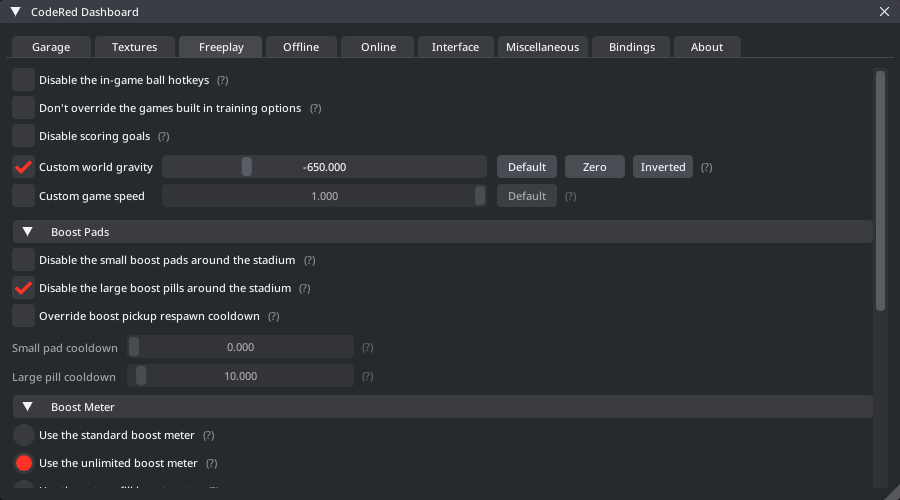
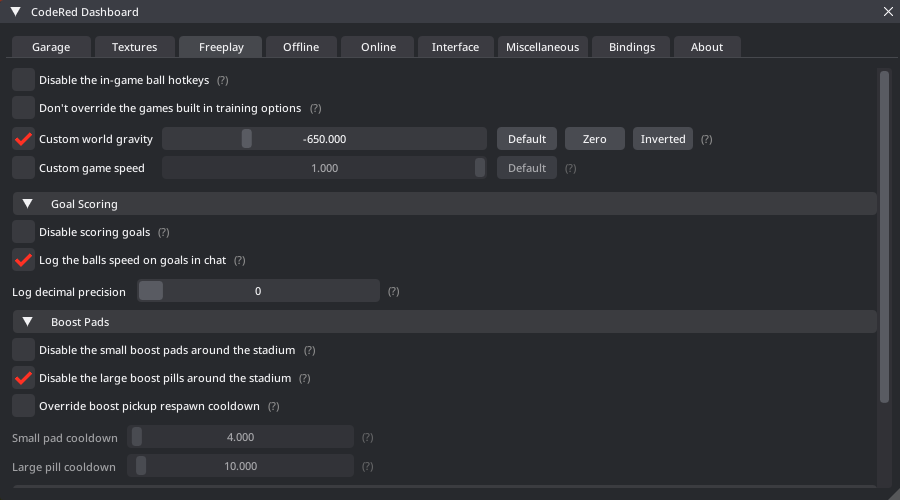
Initial Commit

diff --git a/documentation.html b/documentation.html
@@ -260,7 +260,7 @@
                             <table class="table table-bordered">
                                 <tbody>
                                     <tr>
-                                        <th class="theme-bg-light"><b>imgui_global_scale &lt0.2-4&gt</b></th>
+                                        <th class="theme-bg-light"><b>imgui_global_scale</b></th>
                                         <td>Change the global interface scaling for ImGui.</td>
                                     </tr>
                                     <tr>
@@ -729,7 +729,7 @@
                                         <td>Disable the large boost pills around the stadium in freeplay.</td>
                                     </tr>
                                     <tr>
-                                        <th class="theme-bg-light"><b>freeplay_gravity</b></th>
+                                        <th class="theme-bg-light"><b>freeplay_gravity &lt-1300.0-1300.0&gt</b></th>
                                         <td>Custom gravity force to apply in freeplay.</td>
                                     </tr>
                                     <tr>
@@ -803,6 +803,14 @@
                                     <tr>
                                         <th class="theme-bg-light"><b>freeplay_speed</b></th>
                                         <td>Custom game speed value to apply in freeplay.</td>
+                                    </tr>
+                                    <tr>
+                                        <th class="theme-bg-light"><b>freeplay_goal_speed &lttrue-false&gt</b></th>
+                                        <td>Shows the last goal speed of the ball in chat in freeplay.</td>
+                                    </tr>
+                                    <tr>
+                                        <th class="theme-bg-light"><b>freeplay_goal_precision &lt0-9&gt</b></th>
+                                        <td>The decimal precision used in displaying the goal speed.</td>
                                     </tr>
                                 </tbody>
                             </table>
@@ -1420,6 +1428,10 @@
                                     </tr>
                                     <tr>
                                         <th class="theme-bg-light"><b>scoreboard_skill_precision &lt0-9&gt</b></th>
+                                        <td>The decimal precision used in the win/loss skill ratings on the scoreboard.</td>
+                                    </tr>
+                                    <tr>
+                                        <th class="theme-bg-light"><b>scoreboard_update_precision &lt0-9&gt</b></th>
                                         <td>The decimal precision used in displaying skill ratings on the scoreboard.</td>
                                     </tr>
                                     <tr>

diff --git a/changelog.html b/changelog.html
@@ -181,8 +181,13 @@
                     <h1 class="docs-heading">Module Changelog (Alpha)</h1>
 
                         <section class="docs-section" id="item-2-8-8">
-                            <h2 class="section-heading">Version 1.8.8 (October 31st 2023)</h2>
-                            <h5></h5>
+                            <h2 class="section-heading">Version 1.8.8 (October 23rd 2023)</h2>
+                            <h5>- Added a new "Goal Scoring" header under the "Freeplay" tab in the dashboard.</h5>
+                            <h5>- Added a new setting <code>freeplay_goal_speed</code>, which will post the speed of freeplay goals in chat.</h5>
+                            <h5>- Added a new setting <code>freeplay_goal_precision</code>, which controls the decimal precision when showing the goals speed.</h5>
+                            <h5>- Added a new setting <code>scoreboard_update_precision</code>, which controls the decimal precision for mmr gained/lost for players on the scoreboard.</h5>
+                            <h5>- Fixed the commands to apply location/velocity to the ball and player applying working during goal replays.</h5>
+                            <h5>- Fixed some issues with CodeRed thinking you were playing in offline mode.</h5>
                         </section>
 
                         <section class="docs-section" id="item-2-8-7">
